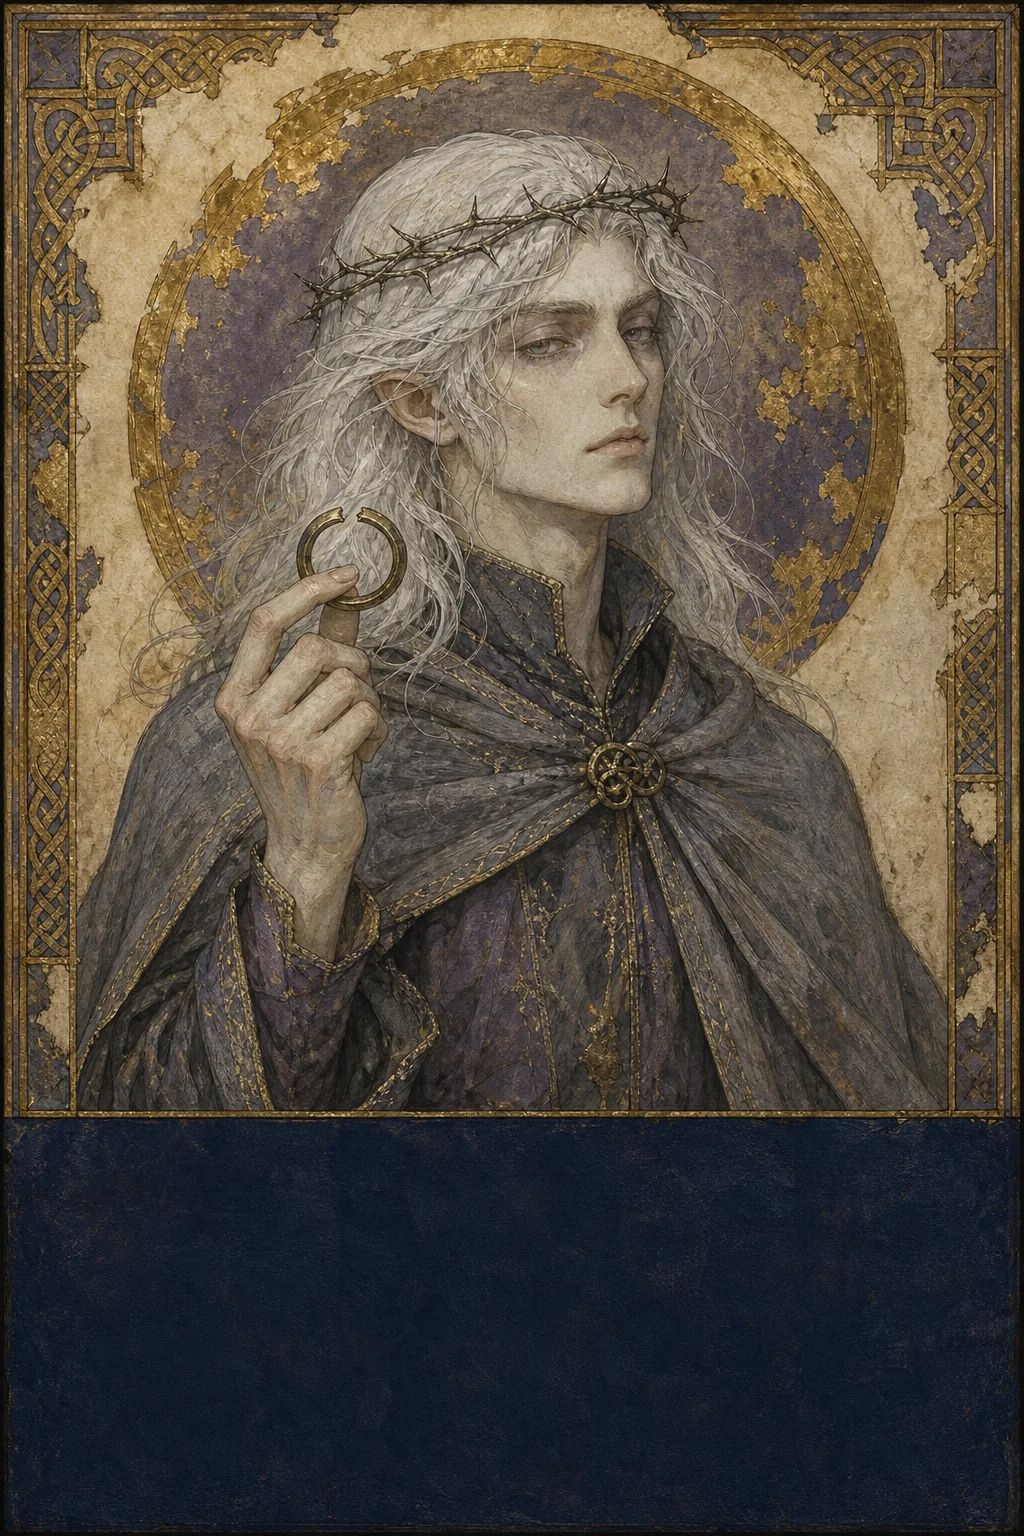
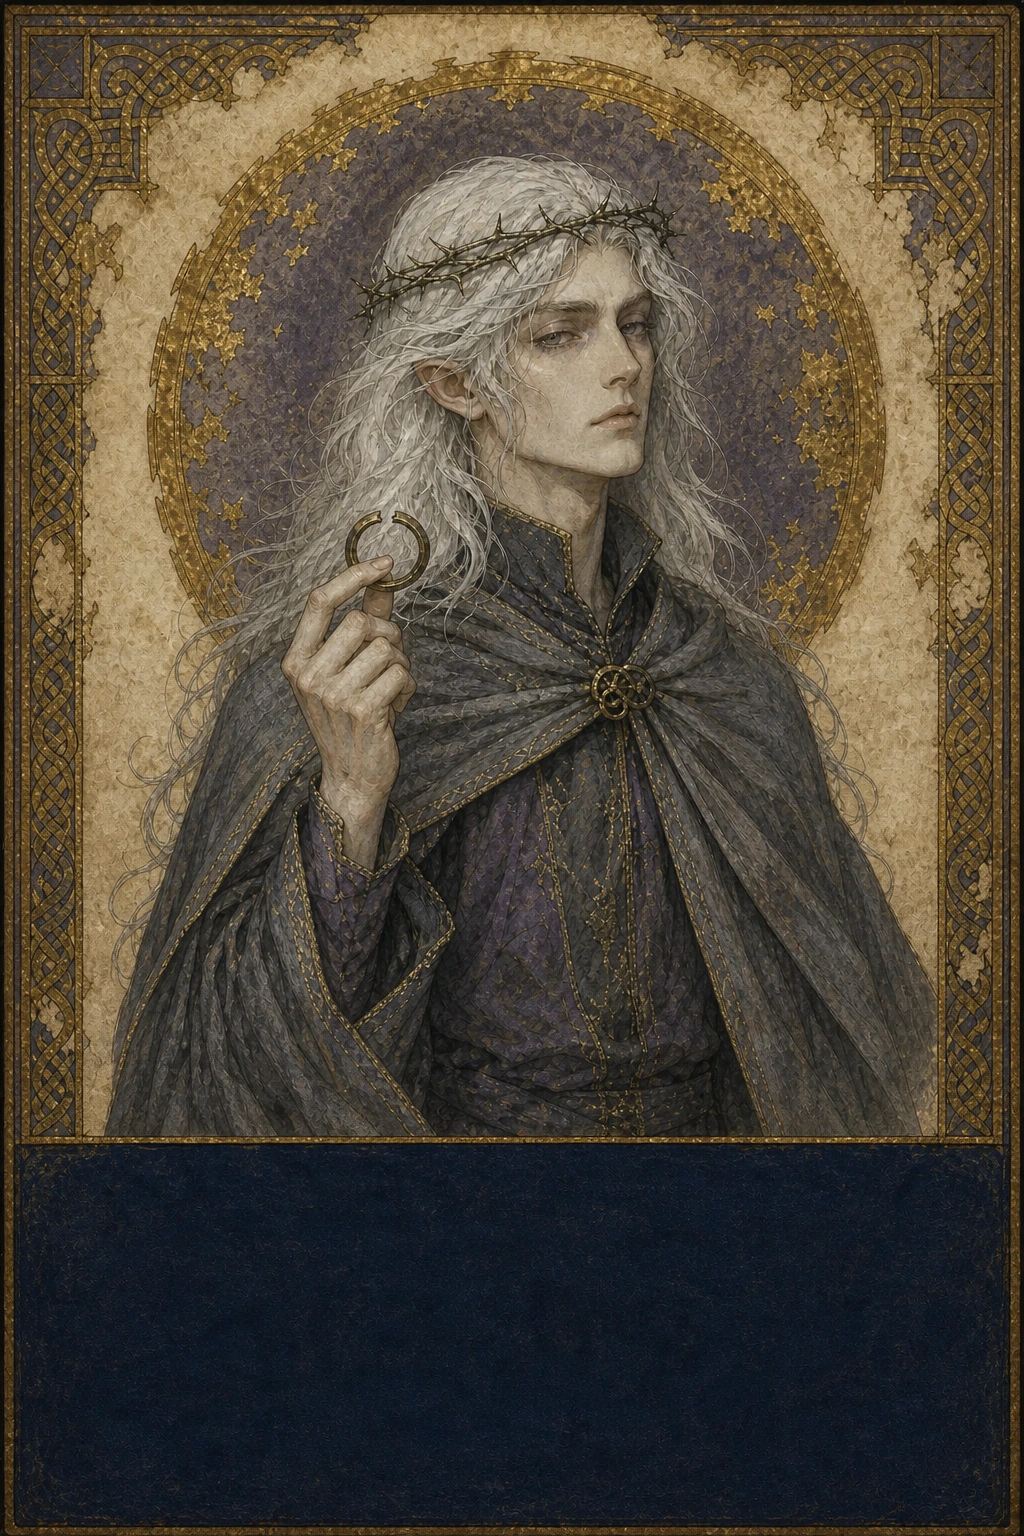
feat(avalon): normalize role card character framing

diff --git a/frontend/src/games/avalon/roleSkins.ts b/frontend/src/games/avalon/roleSkins.ts
@@ -70,6 +70,13 @@ export interface RoleSkinPreviewRole {
   name: string
   alignment: AvalonRoleAlignment
   artwork: string
+  framing: RoleArtworkFraming
+}
+
+export interface RoleArtworkFraming {
+  scale: number
+  originXPercent: number
+  originYPercent: number
 }
 
 export const ROLE_SKIN_STORAGE_KEY = 'avalon:role-skin'
@@ -172,8 +179,25 @@ const ROLE_ART: Record<RoleSkinId, Record<AvalonRoleCode, string>> = {
   },
 }
 
+const DEFAULT_ROLE_ARTWORK_FRAMING: RoleArtworkFraming = {
+  scale: 1,
+  originXPercent: 50,
+  originYPercent: 50,
+}
+
+const ROLE_ARTWORK_FRAMING: Partial<
+  Record<RoleSkinId, Partial<Record<AvalonRoleCode, RoleArtworkFraming>>>
+> = {
+  'grail-myth': {
+    morgana: { scale: 1.1, originXPercent: 50, originYPercent: 29 },
+    mordred: { scale: 1.1, originXPercent: 50, originYPercent: 27 },
+    oberon: { scale: 1.08, originXPercent: 50, originYPercent: 28 },
+    minion: { scale: 1.1, originXPercent: 50, originYPercent: 27 },
+  },
+}
+
 const ROLE_PREVIEW_DEFINITIONS: Array<
-  Omit<RoleSkinPreviewRole, 'artwork'>
+  Omit<RoleSkinPreviewRole, 'artwork' | 'framing'>
 > = [
   { code: 'merlin', name: '梅林', alignment: 'good' },
   { code: 'percival', name: '派西维尔', alignment: 'good' },
@@ -229,7 +253,19 @@ export function roleSkinPreviewRoles(
   return ROLE_PREVIEW_DEFINITIONS.map((role) => ({
     ...role,
     artwork: ROLE_ART[skin][role.code],
+    framing: roleArtworkFraming(role.code, skin),
   }))
+}
+
+export function roleArtworkFraming(
+  roleCode: string,
+  skin: RoleSkinId,
+): RoleArtworkFraming {
+  if (!Object.prototype.hasOwnProperty.call(ROLE_ART[skin], roleCode)) {
+    return DEFAULT_ROLE_ARTWORK_FRAMING
+  }
+  return ROLE_ARTWORK_FRAMING[skin]?.[roleCode as AvalonRoleCode]
+    ?? DEFAULT_ROLE_ARTWORK_FRAMING
 }
 
 export function roleArtwork(

diff --git a/frontend/src/games/avalon/roleSkins.test.ts b/frontend/src/games/avalon/roleSkins.test.ts
@@ -1,0 +1,33 @@
+import {
+  roleArtworkFraming,
+  roleSkinPreviewRoles,
+} from './roleSkins'
+
+describe('Avalon role skin artwork framing', () => {
+  it('keeps the established ultimate-skin hero cards unchanged', () => {
+    expect(roleArtworkFraming('merlin', 'grail-myth')).toEqual({
+      scale: 1,
+      originXPercent: 50,
+      originYPercent: 50,
+    })
+    expect(roleArtworkFraming('assassin', 'grail-myth').scale).toBe(1)
+  })
+
+  it('brings the more distant ultimate-skin portraits closer', () => {
+    expect(roleArtworkFraming('morgana', 'grail-myth')).toEqual({
+      scale: 1.1,
+      originXPercent: 50,
+      originYPercent: 29,
+    })
+    expect(roleArtworkFraming('mordred', 'grail-myth').scale).toBe(1.1)
+    expect(roleArtworkFraming('oberon', 'grail-myth').scale).toBe(1.08)
+    expect(roleArtworkFraming('minion', 'grail-myth').scale).toBe(1.1)
+  })
+
+  it('uses the same framing data in the eight-role preview model', () => {
+    const roles = roleSkinPreviewRoles('grail-myth')
+    expect(roles).toHaveLength(8)
+    expect(roles.find((role) => role.code === 'merlin')?.framing.scale).toBe(1)
+    expect(roles.find((role) => role.code === 'morgana')?.framing.scale).toBe(1.1)
+  })
+})

diff --git a/frontend/src/games/avalon/components/SecretCard.vue b/frontend/src/games/avalon/components/SecretCard.vue
@@ -3,6 +3,7 @@ import { computed, ref } from 'vue'
 import { Eye, EyeOff, Lock } from '@lucide/vue'
 import {
   roleArtwork,
+  roleArtworkFraming,
   roleSkinName,
   type RoleSkinId,
 } from '../roleSkins'
@@ -28,6 +29,9 @@ const pressed = ref(false)
 const hasSeen = ref(false)
 const artwork = computed(() =>
   props.roleCode ? roleArtwork(props.roleCode, props.roleSkin) : null,
+)
+const artworkFraming = computed(() =>
+  roleArtworkFraming(props.roleCode, props.roleSkin),
 )
 const activeSkinName = computed(() => roleSkinName(props.roleSkin))
 
@@ -72,6 +76,10 @@ function hide() {
           v-if="artwork"
           class="secret-card__art"
           :src="artwork"
+          :style="{
+            '--role-art-scale': artworkFraming.scale,
+            '--role-art-origin': `${artworkFraming.originXPercent}% ${artworkFraming.originYPercent}%`,
+          }"
           alt=""
           aria-hidden="true"
         />
@@ -140,6 +148,8 @@ function hide() {
 .secret-card__art {
   z-index: 0;
   object-fit: cover;
+  transform: scale(var(--role-art-scale, 1));
+  transform-origin: var(--role-art-origin, 50% 50%);
 }
 
 .secret-card__shade {

diff --git a/frontend/src/games/avalon/components/RoleSkinPicker.vue b/frontend/src/games/avalon/components/RoleSkinPicker.vue
@@ -138,6 +138,11 @@ onBeforeUnmount(() => window.removeEventListener('keydown', handleEscape))
             <img
               :src="role.artwork"
               :alt="`${previewSkin.name}中的${role.name}`"
+              :style="{
+                '--role-art-scale': role.framing.scale,
+                '--role-art-hover-scale': role.framing.scale * 1.025,
+                '--role-art-origin': `${role.framing.originXPercent}% ${role.framing.originYPercent}%`,
+              }"
               draggable="false"
             />
             <div class="role-skin-identity">
@@ -534,12 +539,14 @@ onBeforeUnmount(() => window.removeEventListener('keydown', handleEscape))
   width: 100%;
   height: 100%;
   object-fit: cover;
+  transform: scale(var(--role-art-scale, 1));
+  transform-origin: var(--role-art-origin, 50% 50%);
   transition: transform 260ms ease, filter 260ms ease;
 }
 
 .role-skin-portrait:hover img {
   filter: brightness(1.06);
-  transform: scale(1.025);
+  transform: scale(var(--role-art-hover-scale, 1.025));
 }
 
 .role-skin-identity {

diff --git a/frontend/src/games/avalon/components/SecretCard.test.ts b/frontend/src/games/avalon/components/SecretCard.test.ts
@@ -42,4 +42,21 @@ describe('SecretCard', () => {
     await card.trigger('pointerup')
     expect(wrapper.find('.secret-card__art').exists()).toBe(false)
   })
+
+  it('uses the same calibrated framing as the skin preview', async () => {
+    const wrapper = mount(SecretCard, {
+      props: {
+        title: '莫甘娜',
+        subtitle: '莫德雷德阵营',
+        roleCode: 'morgana',
+        roleSkin: 'grail-myth',
+      },
+    })
+
+    await wrapper.get('.secret-card').trigger('pointerdown')
+
+    const artwork = wrapper.get('.secret-card__art')
+    expect(artwork.attributes('style')).toContain('--role-art-scale: 1.1')
+    expect(artwork.attributes('style')).toContain('--role-art-origin: 50% 29%')
+  })
 })

diff --git a/frontend/src/games/avalon/components/RoleSkinPicker.test.ts b/frontend/src/games/avalon/components/RoleSkinPicker.test.ts
@@ -35,6 +35,12 @@ describe('RoleSkinPicker', () => {
     expect(modal.text()).toContain('莫德雷德')
     expect(modal.text()).toContain('奥伯伦')
     expect(modal.text()).toContain('莫德雷德的爪牙')
+    expect(
+      modal.get('[data-role="merlin"] img').attributes('style'),
+    ).toContain('--role-art-scale: 1')
+    expect(
+      modal.get('[data-role="morgana"] img').attributes('style'),
+    ).toContain('--role-art-scale: 1.1')
 
     await modal.get('.role-skin-use-button').trigger('click')
 
